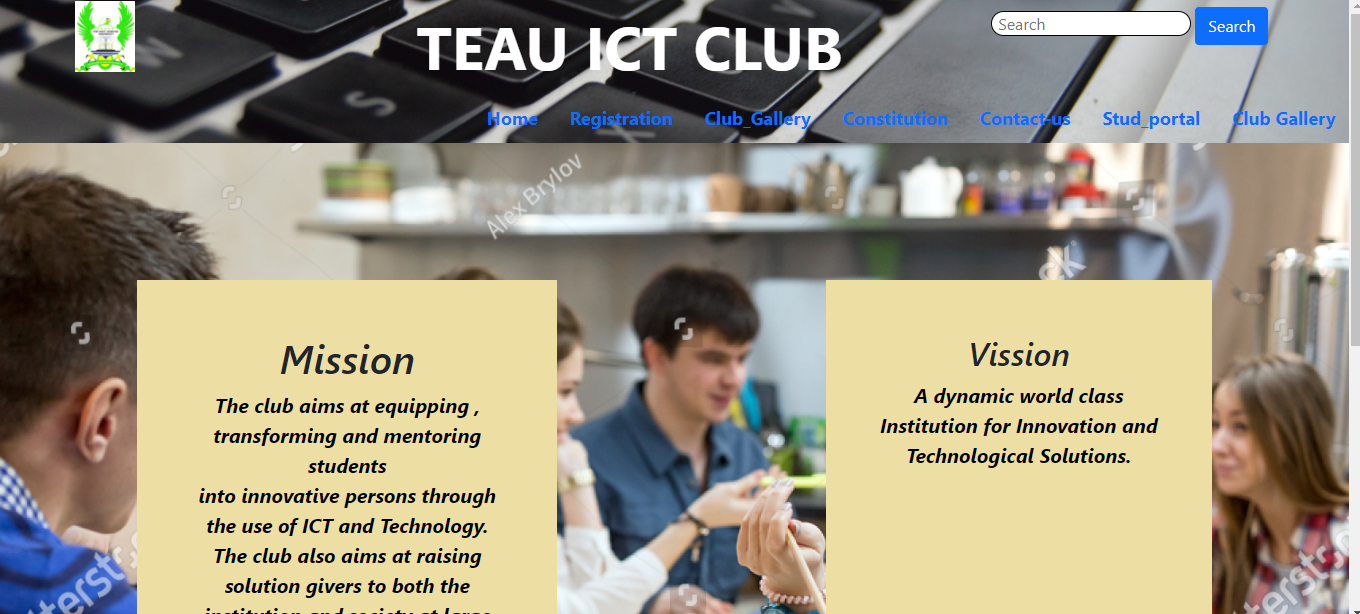
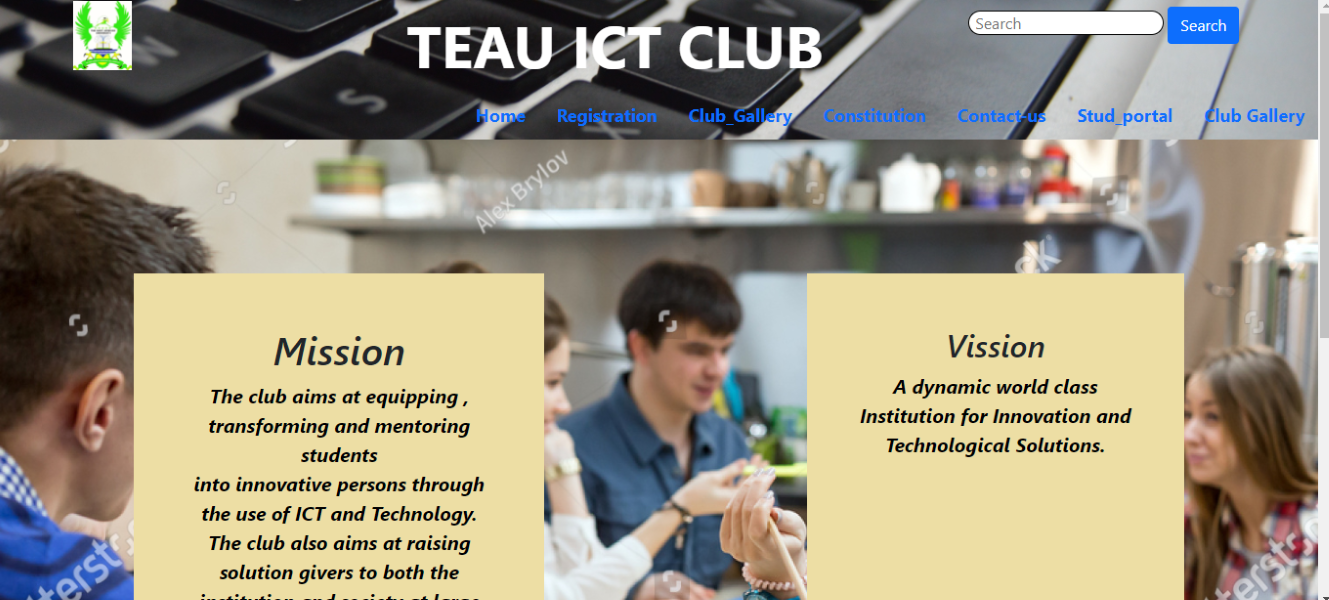
third commit

diff --git a/index.html b/index.html
@@ -92,7 +92,7 @@
       </p>
       </div>
 
-      <button class="btn-learn">Learn More</button>
+      <button class="btn-learn" onclick="window.location.href='#journey mx-0 px-0'">Learn More</button>
 
       </section>
 
@@ -103,7 +103,7 @@
         <h1 >My Projects</h1>
 </div>
         <div class="row">
-          <div class="projects-column col-lg-6 col-md-6 ">
+          <div class="projects-column col-lg-4 col-md-6 ">
             <div class="card  border-0">
               <div class="card-body mx-0 px-0 my-0 py-0">
                 <img
@@ -135,16 +135,16 @@
             </div>
           </div>
 
-          <div class="projects-column col-lg-6 col-md-6">
+          <div class="projects-column col-lg-4 col-md-6">
             <div class="card border-0">
               <div class="card-body mx-0 px-0 my-0 py-0">
-                <img class="img-card" src="images/Dicee game.png" alt="" />
+                <img class="img-card" src="images/Dicee game2.png" alt="" />
                 <h3 class="card-h1">Dicee game</h3>
 
                 <hr class="card-rounded" />
 
                 <p>
-                  Using Html, bootstrap and DOM I developed this Dicee
+                  Using Html, bootstrap, DOM and Javascript I developed this Dicee
                   game from scratch.
                 </p>
 
@@ -160,7 +160,7 @@
             </div>
           </div>
 
-          <div class="projects-column col-lg-6 col-md-6">
+          <div class="projects-column col-lg-4 col-md-6">
             <div class="card border-0">
               <div class="card-body mx-0 px-0 my-0 py-0">
                 <img class="img-card" src="images/food-order.png" alt="" />
@@ -185,7 +185,7 @@
             </div>
           </div>
 
-          <div class="projects-column col-lg-6 col-md-6">
+          <div class="projects-column col-lg-4 col-md-6">
             <div class="card border-0">
               <div class="card-body mx-0 px-0 my-0 py-0">
                 <img class="img-card" src="images/ICT club .png" alt="" />
@@ -209,7 +209,7 @@
             </div>
           </div>
 
-          <div class="projects-column col-lg-6 col-md-6">
+          <div class="projects-column col-lg-4 col-md-6">
             <div class="card border-0">
               <div class="card-body mx-0 px-0 my-0 py-0">
                 <img class="img-card" src="images/ict club portal.png" alt="" />
@@ -224,8 +224,8 @@
 
                 <h4 class="h3-stack">Stack</h4>
 
-                <ul class="project-styles">
-                  <li class="project-styles">HTMl</li>
+                  <ul class="project-styles">
+                  <li class="project-styles">HTML</li>
                   <li class="project-styles">CSS</li>
                   <li class="project-styles">Bootstrap</li>
                   <li class="project-styles">PHP</li>
@@ -337,7 +337,7 @@
           
           <div class="list-group">
             <h4>call me</h4>
-            <a class="list-group-item list-group-item-action" href="tel:+740758955">+254740758955</a>
+            <a class="list-group-item list-group-item-action" href="tel:+254740758955">+254740758955</a>
           </div>
           <div class="list-group">
             <h4>call me</h4>
@@ -363,5 +363,8 @@
 
       </section>
     </div>
+
+    <script src="index.js"></script>
+
   </body>
 </html>

diff --git a/css/style.css b/css/style.css
@@ -34,7 +34,7 @@ h1, h2, h3, h4, h5, h6, button {
     
 }
 .navbar-nav a{
-    font-size: 1.8rem;
+    font-size: 1.25rem;
     line-height: 32px;
     color: rgba(255, 255, 255, 0.75);
     transition: all 0.4s ease 0s;
@@ -159,8 +159,6 @@ border-style: none;
           
   } */
   .projects-column{
-      
-       
       background-color: rgb(15, 22, 36);
       text-align: center;
       align-items: center;
@@ -169,7 +167,8 @@ border-style: none;
       /* margin: 1px; */
       padding-top: 4%;
       margin-bottom: 3%;
-      /* width: 30%; */
+      width: 100%;
+      height: auto;
      
     
       
@@ -179,23 +178,26 @@ border-style: none;
     background-color: rgb(15, 22, 36)!important;
     background: rgb(15, 22, 36);
     text-align: center;
-    /* margin: 0%; */
-    /* gap:5%; */
-    /* margin: 2%; */
-    width: 90%;
+    
+    
+    width: 100%;
+    height: auto;
     color: #130f40;
     border: 1px solid rgb(15, 22, 36);
     box-shadow: 0 0 40px 0 rgba(100, 100, 100, 0.26);
   }
   
   .card-body{
-       
     background-color: rgb(15, 22, 36);
     text-align: center;
     object-fit: cover;
     line-height: 1.5rem;
     
   } 
+  .card-body img{
+      width: 100%;
+      height: 80%;
+  }
   .img-card{
       border-style: none;
       border-top-left-radius: 1em;
@@ -234,7 +236,7 @@ border-style: none;
     font-size: 1.5rem;
   }
   .card-body p{
-      padding: 0px 60px 0px;
+      padding: 0px 20px 0px;
   }
   p{
       display: block;
@@ -259,9 +261,9 @@ border-style: none;
       list-style: none;
       display: flex;
       justify-content: space-around;
-      padding-top: 0% 0% 0%;
+      padding: 0% 0% 0%;
       margin-top: 1%;
-      margin-left: 5%;
+      margin-left:0%;
   }
   .btn-view{
       color: rgb(212, 192, 192);
@@ -287,6 +289,8 @@ border-style: none;
     }
     
 }
+
+/* tech section */
 #tech{
     padding: 1% 15% 1%;
     position: relative;

diff --git a/index.js b/index.js
@@ -1,0 +1,4 @@
+function btnLink() {
+  var a = document.getElementById(journey)
+  
+}
